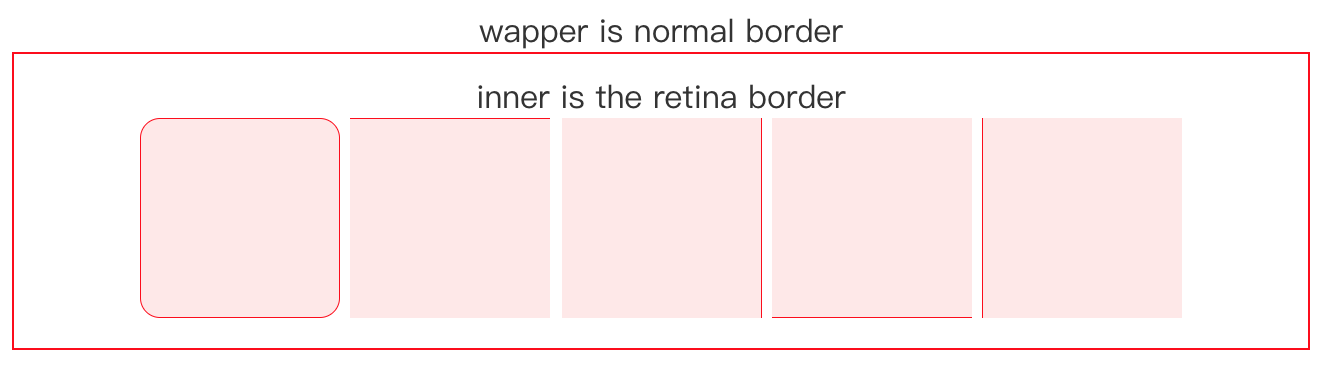
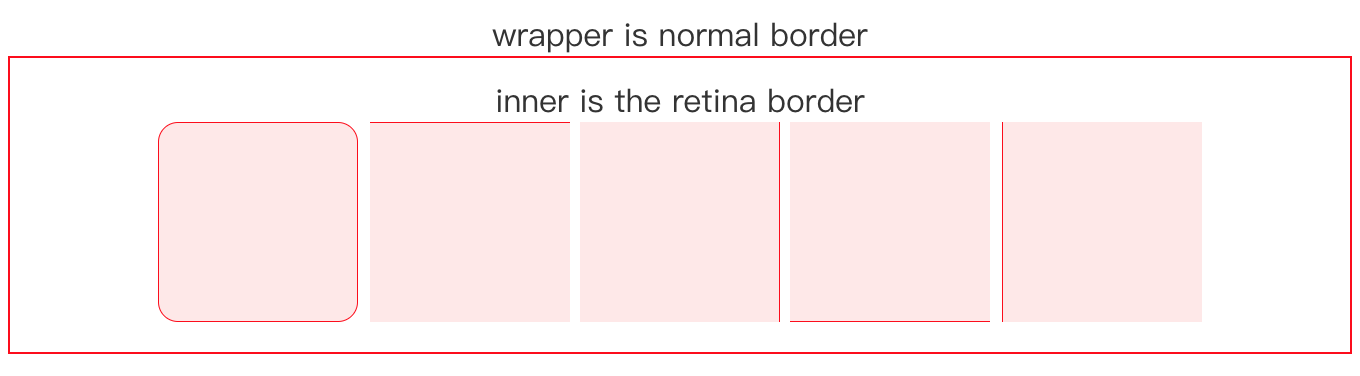
Refactor:  will add/update at origin. Add test case of 'position'.Update readme.

diff --git a/lib/index.js b/lib/index.js
@@ -21,6 +21,7 @@ const retina = postcss.plugin('postcss-retina', (options = {}) => (root) => {
     root.walkRules((rule) => {
         const borderDecls = [];
         let isExistBorderWidth = false;
+        let isPositionStatic = true;
 
         rule.walkDecls((decl) => {
             if (borderReg.test(decl.prop) && unitPxReg.test(decl.value)) {
@@ -40,6 +41,9 @@ const retina = postcss.plugin('postcss-retina', (options = {}) => (root) => {
                     isExistBorderWidth = true;
                 }
             }
+            if (decl.prop === 'position' && decl.value !== 'static') {
+                isPositionStatic = false;
+            }
         });
 
         const slts = rule.selectors.filter(slt => !pseudoReg.test(slt));
@@ -53,6 +57,9 @@ const retina = postcss.plugin('postcss-retina', (options = {}) => (root) => {
         });
         retinaRuleList.push(newRule);
 
+        if (isPositionStatic) {
+            rule.append({ prop: 'position', value: 'relative' });
+        }
         [].push.apply(selectors, rule.selectors);
     });
 

diff --git a/test/helper.spec.js b/test/helper.spec.js
@@ -11,25 +11,25 @@ it('getPseudoSelector()', () => {
 
 it('createMediaQuery()', () => {
     expect(createMediaQuery(['class1', 'class2', 'class3'], 3))
-        .toMatchSnapshot();
+            .toMatchSnapshot();
 });
 
 it('createMediaQuery(empty)', () => {
     expect(createMediaQuery([], 3))
-        .toMatchSnapshot();
+            .toMatchSnapshot();
 });
 
 it('createPseudoElement()', () => {
     expect(createPseudoElement(['class1', 'class2', 'class3']))
-        .toMatchSnapshot();
+            .toMatchSnapshot();
 });
 
 it('createPseudoElement(empty)', () => {
     expect(createPseudoElement([]))
-        .toMatchSnapshot();
+            .toMatchSnapshot();
 });
 
 it('unique()', () => {
     expect(unique(['class1', 'class2', 'class1', 'class3']))
-        .toMatchSnapshot();
+            .toMatchSnapshot();
 });

diff --git a/example/border.retina.css b/example/border.retina.css
@@ -13,18 +13,23 @@
 
 .foo {
   border-radius: 10px;
+  position: relative;
 }
 
 .left {
+  position: relative;
 }
 
 .right {
+  position: relative;
 }
 
 .top {
+  position: relative;
 }
 
 .bottom {
+  position: relative;
 }
 
 .foo::before {
@@ -46,10 +51,6 @@
 
 .bottom::before {
   border-bottom: 1px solid red;
-}
-
-.foo, .left, .right, .top, .bottom {
-  position: relative;
 }
 
 .foo::before, .left::before, .right::before, .top::before, .bottom::before {

diff --git a/lib/helper.js b/lib/helper.js
@@ -2,15 +2,8 @@ function getPseudoSelector(classList) {
     return classList.map(slt => `${slt}::before`).join(', ');
 }
 
-
 function createPseudoElement(classList) {
-    if (classList.length < 1) return '';
-
     return `
-${classList.join(', ')} {
-  position: relative;
-}
- 
 ${getPseudoSelector(classList)} {
   content: ' ';
   position: absolute;

diff --git a/test/index.spec.js b/test/index.spec.js
@@ -57,3 +57,8 @@ it('declare it is not require to transform', async () => {
     const input = await readFile('./case/no-need.css');
     run(input);
 });
+
+it('keep position whose value is not static', async () => {
+    const input = await readFile('./case/position.css');
+    run(input);
+});

diff --git a/example/index.html b/example/index.html
@@ -11,7 +11,7 @@
 </head>
 
 <body style="color: #333;">
-  <div style="text-align:center"> wapper is normal border </div>
+  <div style="text-align:center"> wrapper is normal border </div>
   <div class="parent">
     <div> inner is the retina border </div>
     <div class="box foo"></div>

diff --git a/test/case/position.css b/test/case/position.css
@@ -1,0 +1,19 @@
+.test1 {
+  position: static;
+  border: 1px solid red;
+}
+
+.test2 {
+  position: relative;
+  border: 1px solid red;
+}
+
+.test3 {
+  position: absolute;
+  border: 1px solid red;
+}
+
+.test4 {
+  position: fixed;
+  border: 1px solid red;
+}

diff --git a/test/case/no-need.css b/test/case/no-need.css
@@ -1,3 +1,13 @@
 .foo {  
   border: 1px solid red; /*no*/ 
 }
+
+.foo1 {  
+  border: 1px solid red; /*no*/ 
+  border-radius: 5px;
+}
+
+.foo2 {  
+  border: 1px solid red; /*no*/ 
+  border-radius: 5px; /*retina*/
+}

diff --git a/README.md b/README.md
@@ -37,14 +37,12 @@ after:
 ```css
 .foo {
   color: white;
+  /* in v1.2.0+ `position` will add/update at origin  */
+  position: relative; 
 }
 
 .foo::before {
   border: 1px solid red;
-}
-
-.foo::before {
-  position: relative;
 }
 
 .foo::before {
@@ -97,10 +95,53 @@ npm install --save-dev postcss-retina
 postcss([ require('postcss-retina') ])
 ```
 
+## Notice
+
 * make sure your box is not a pseudo-class.
+```css
+/* WILL NOT to be transformed */
+.wrong::before {
+  border: 1em;
+}
+/* WILL NOT to be transformed */
+.wrong::after {
+  border: 1em;
+}
+```
 * make sure your **```border```** and **```border-radius```** use **```px```** unit.
-* **```border-radius```** will not to be transformed without border in same brace.  
-> In v1.1.0 you can comment **```/*retina*/```** to mark it need to be transformed.
+```css
+/* WILL be transformed */
+.right {
+  border: 1px;
+}
+/* WILL NOT be transformed */
+.wrong {
+  border: 1em;
+}
+```
+
+* **```border-radius```** will not be transformed if there is not a border declare in same rule.  
+```css
+.foo {
+  border: 1px solid red;
+}
+.bar {
+  /* radius WILL NOT to be transformed */
+  border-radius: 2px;
+}
+```
+```css
+.foo {
+  border: 1px solid red;
+  /* radius WILL to be transformed */
+  border-radius: 2px;
+}
+```
+> In v1.1.0+ you can comment **```/*retina*/```** to mark it need to be transformed.
+```html
+<div class="foo bar1"><div>
+<div class="foo bar2"><div>
+```
 ```css
 .foo {
   border: 1px solid red;
